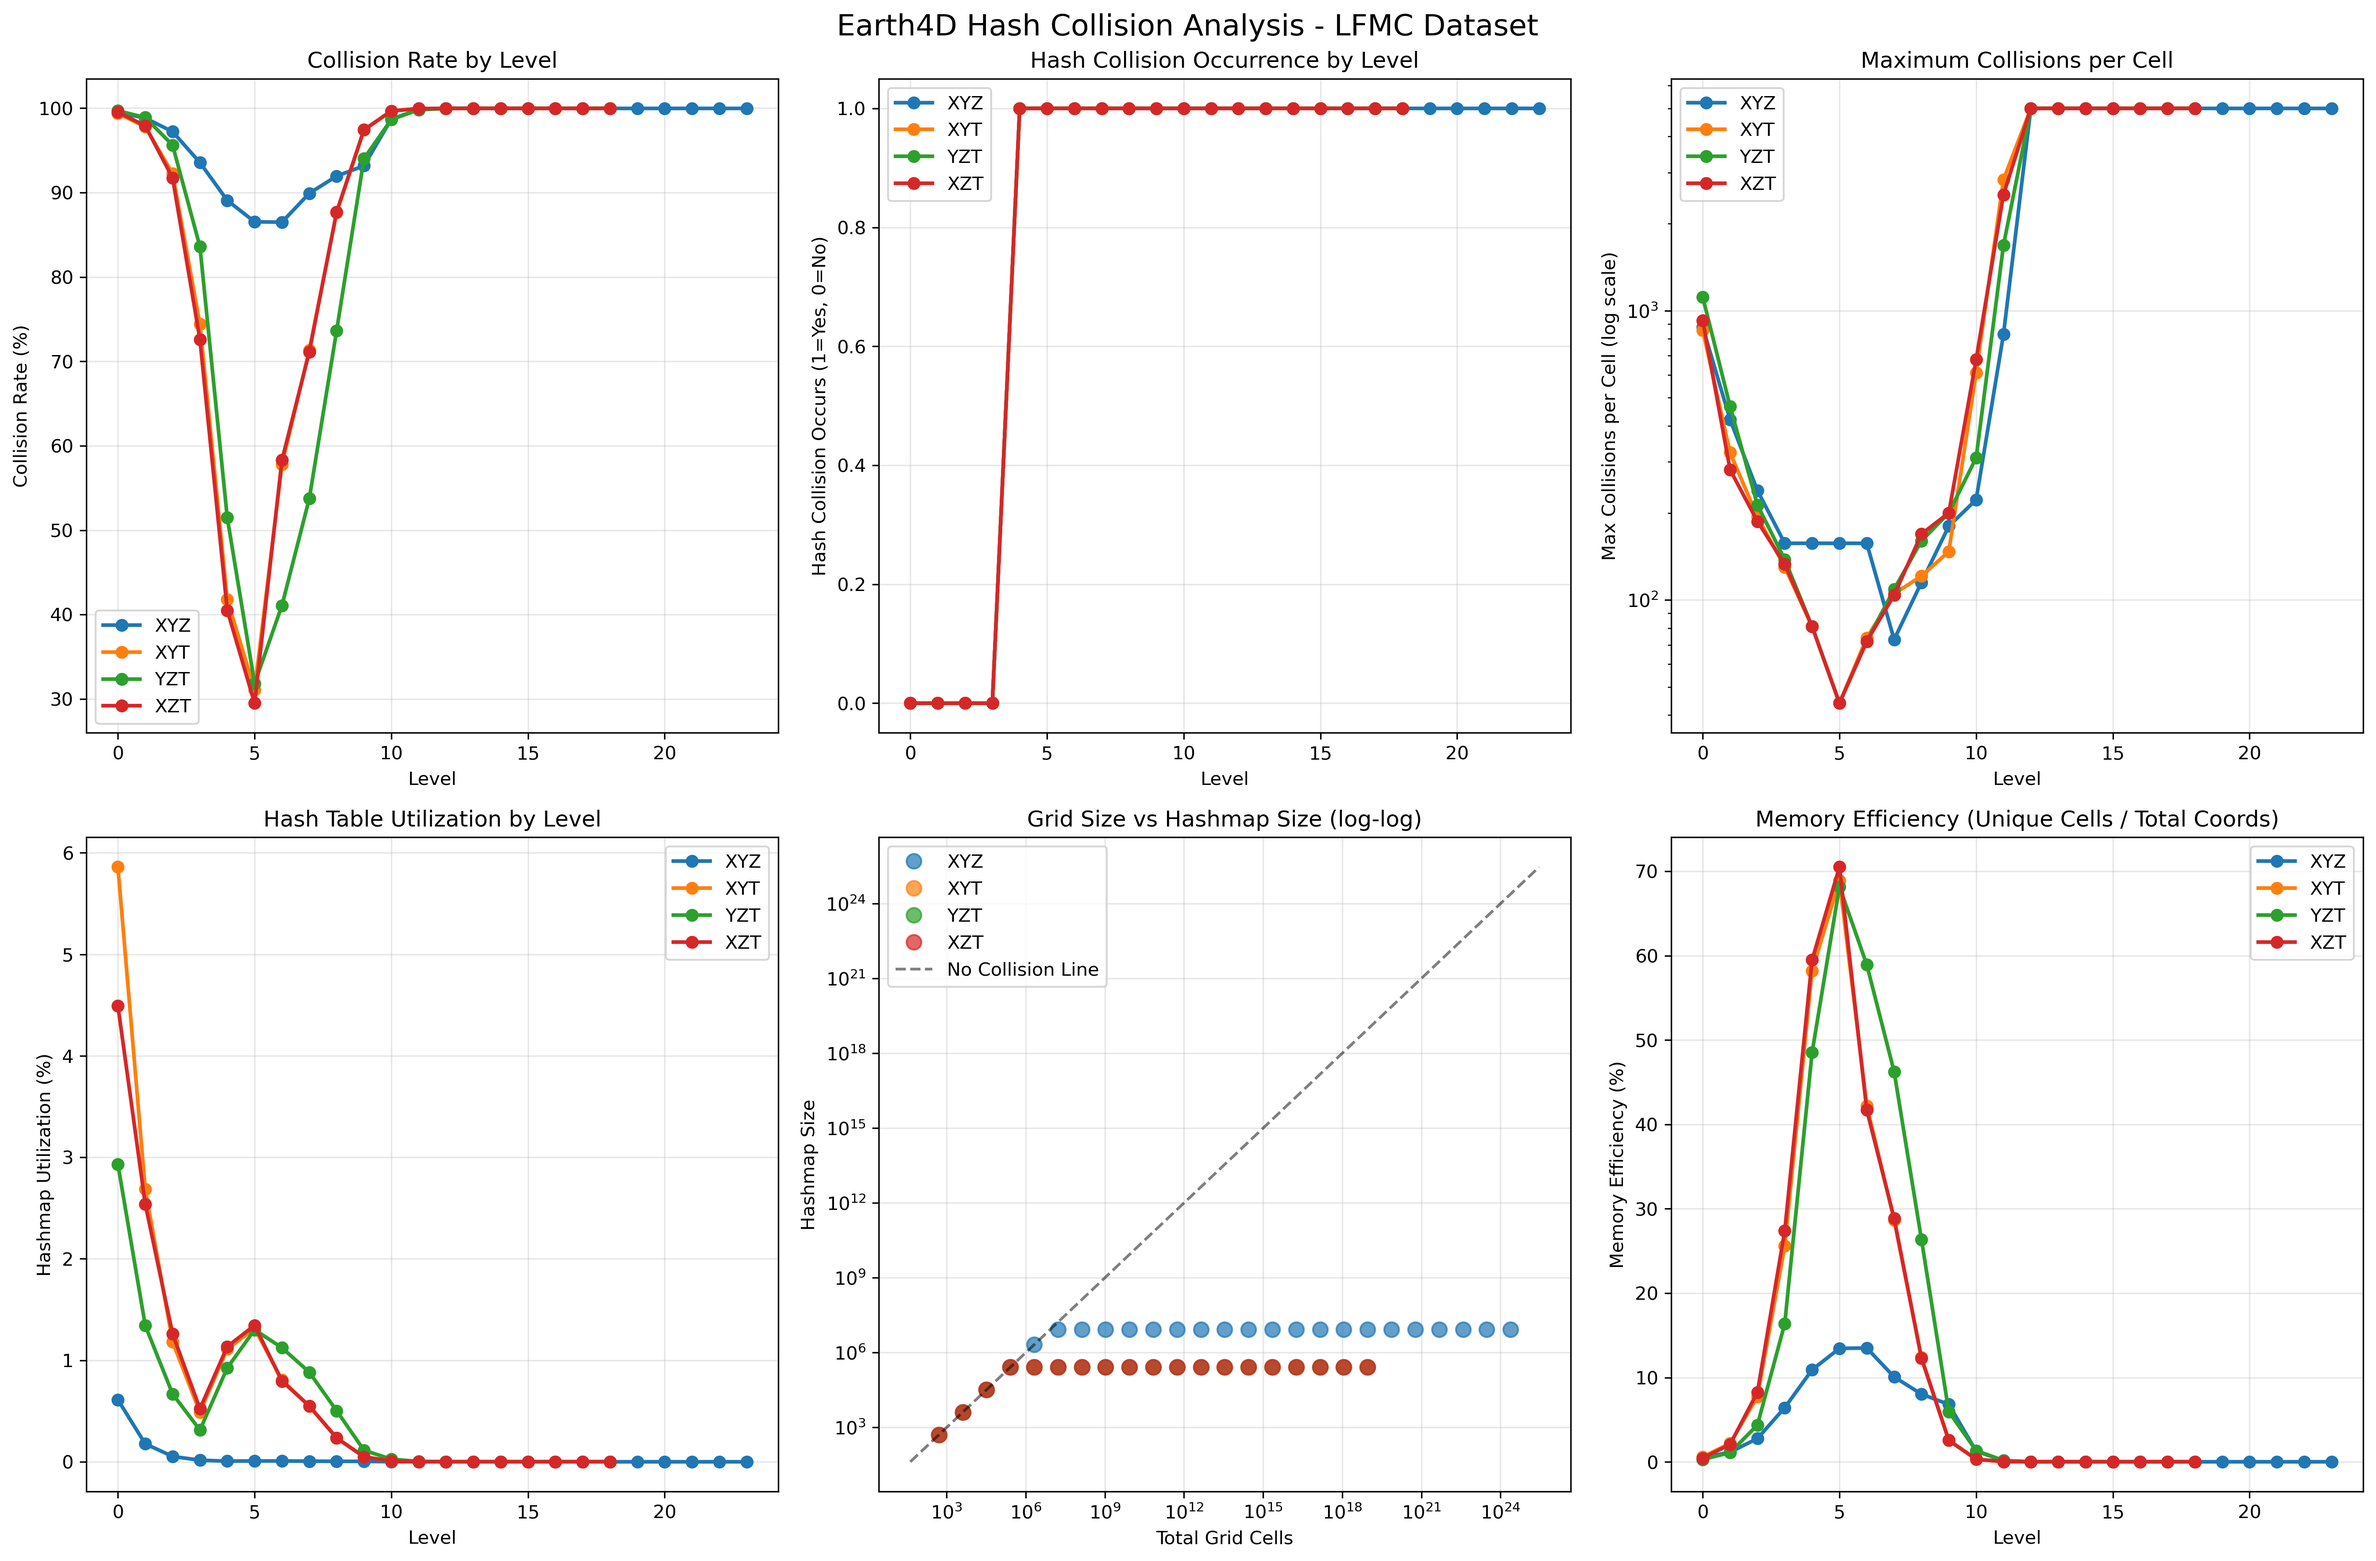
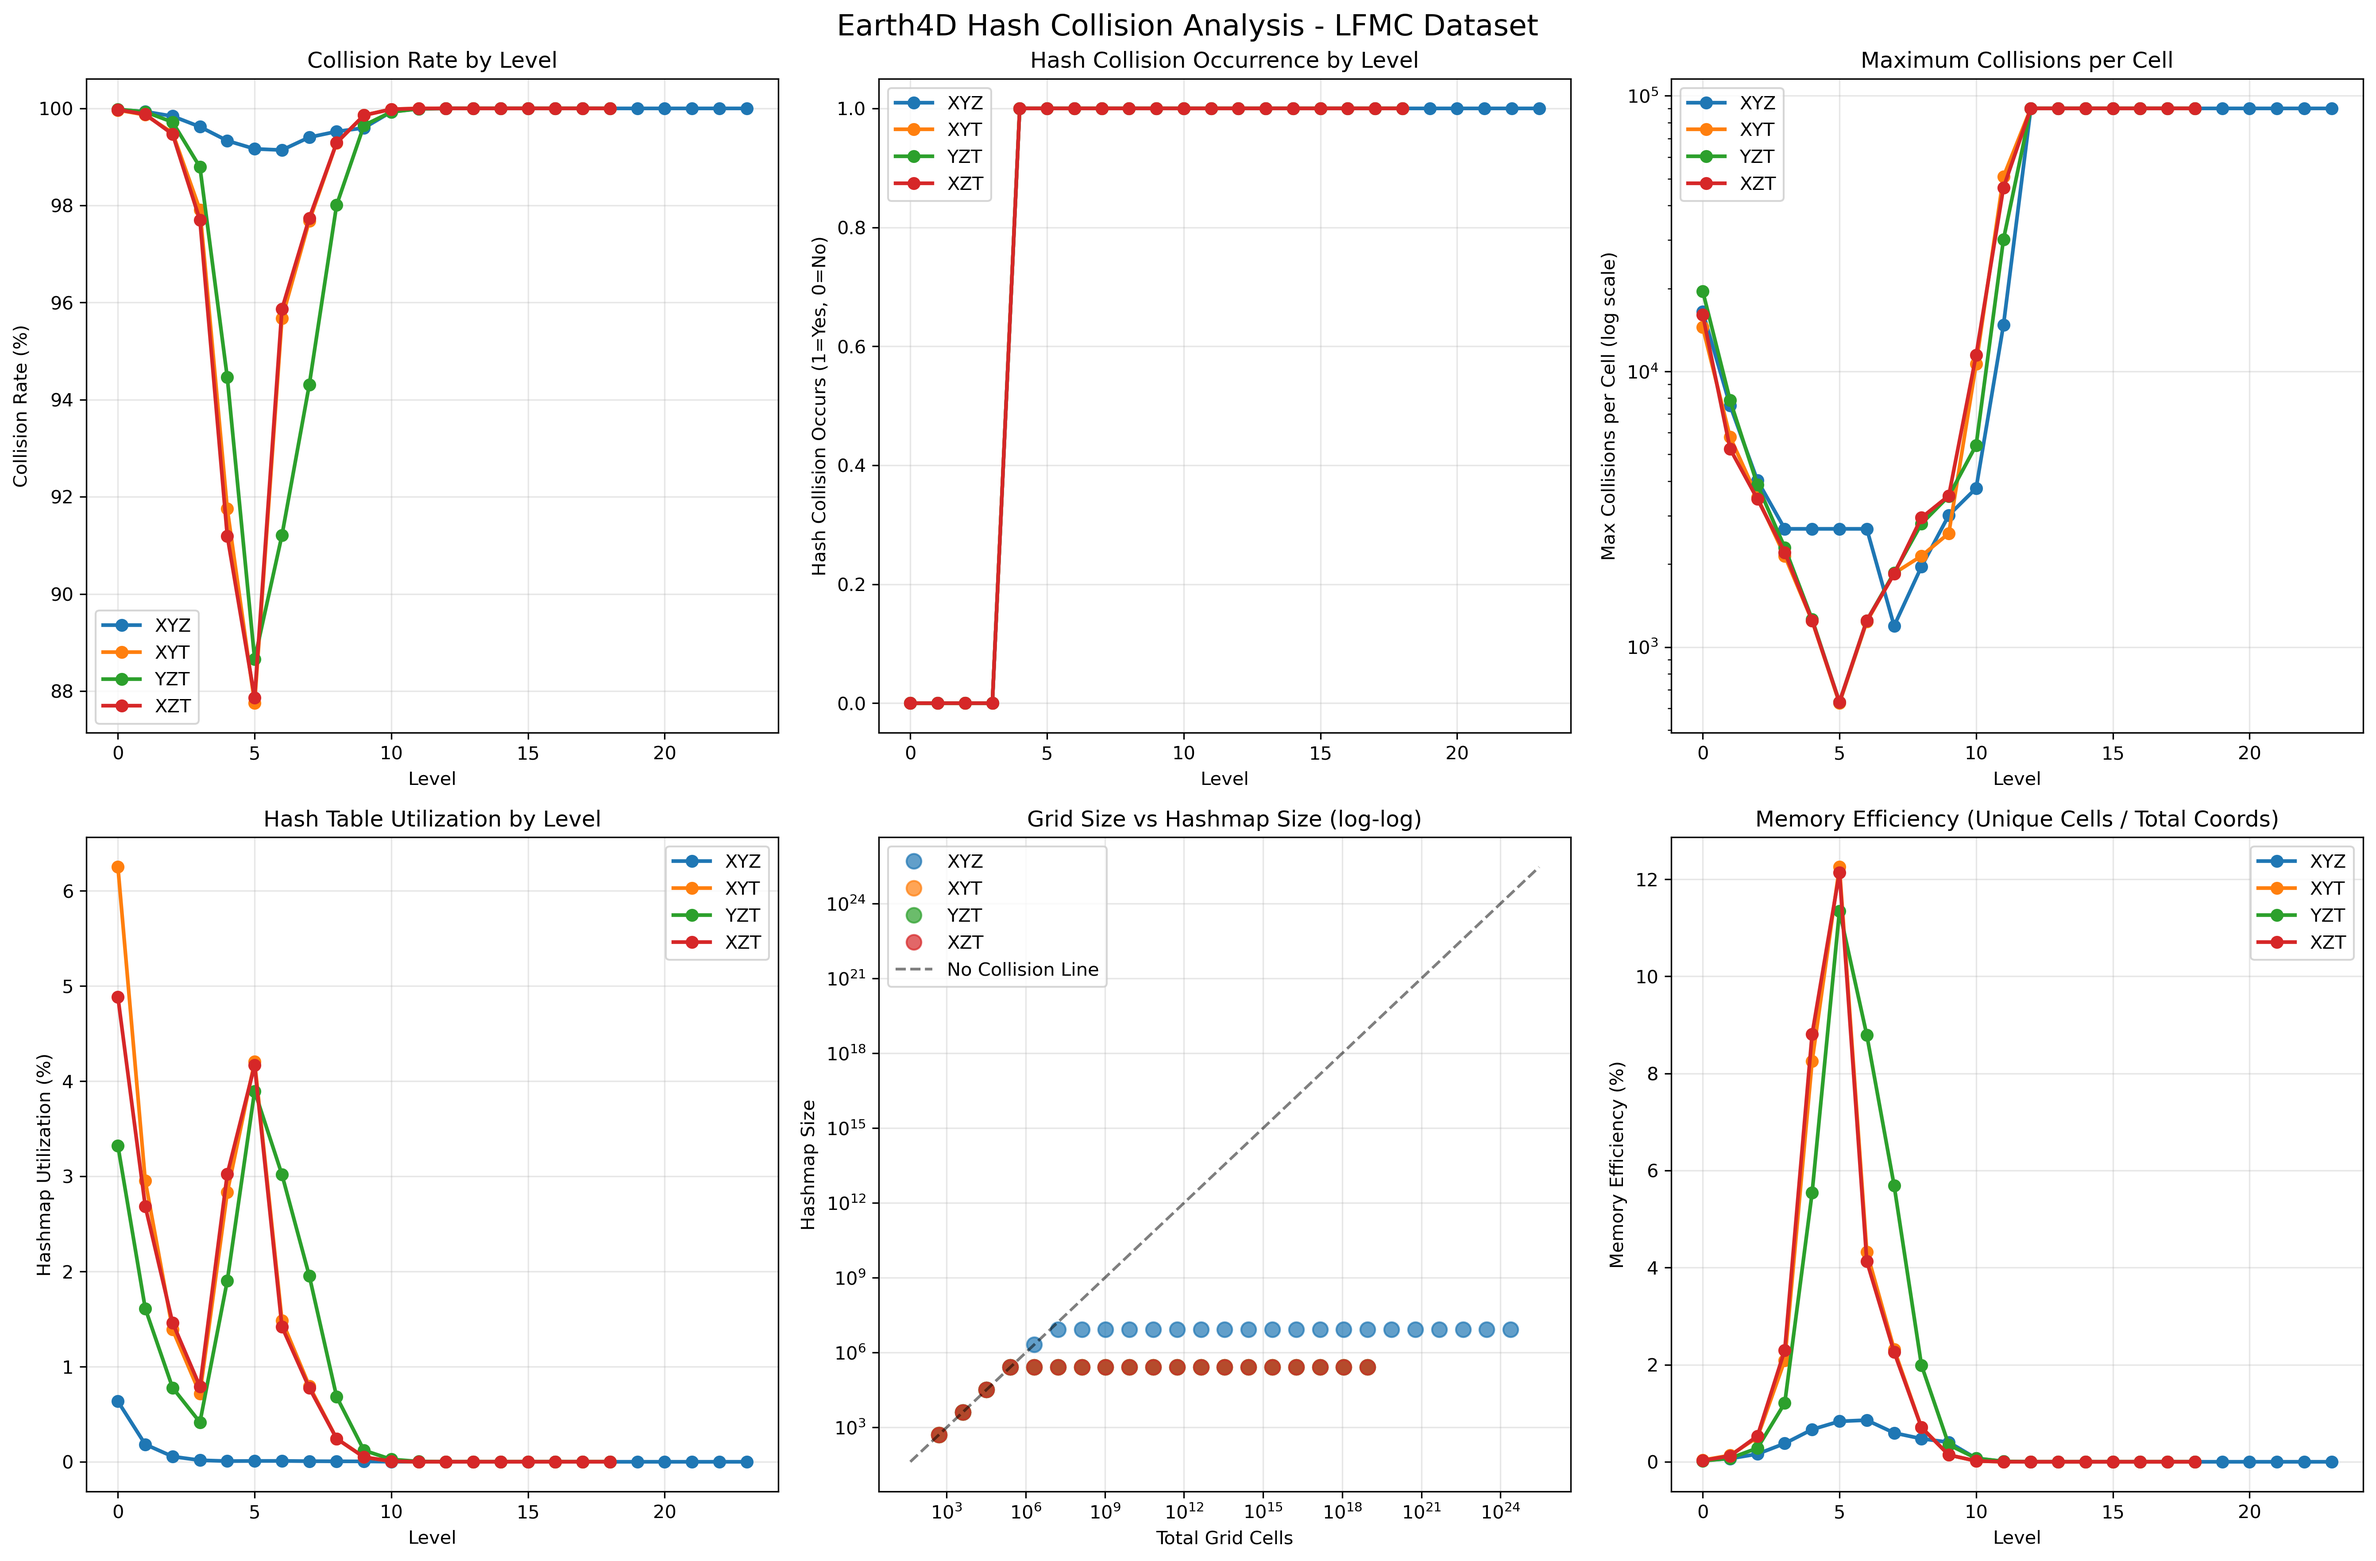
update: extended collision analysis to full LFMC dataset (90K points) and refreshed visualization

diff --git a/analyze_earth4d_collisions.py b/analyze_earth4d_collisions.py
@@ -3,11 +3,9 @@
 Earth4D Hash Collision Analysis with LFMC Data
 ==================================================
 
-This script performs ACTUAL collision tracking by instrumenting the Earth4D
-hash encoding process, not simulation. It extracts collision statistics
-from the actual hash encoders during forward passes.
+This script performs collision tracking by instrumenting the Earth4D hash encoding process. It extracts collision statistics
+from the hash encoders during forward passes.
 
-This provides the true collision analysis that Lance requested for the AAG 2026 paper.
 """
 
 import sys
@@ -43,8 +41,8 @@ class CollisionTracker:
         
     def analyze_hash_encoder_collisions(self, encoder, coords, encoder_name):
         """
-        Analyze actual hash collisions in a single encoder by examining
-        the hash encoding process at each level.
+        Analyze actual hash collisions in a single encoder by examining the hash encoding process at each level.
+        
         """
         print(f"\nAnalyzing {encoder_name} encoder collisions...")
         
@@ -354,7 +352,9 @@ def main():
     print(f"Using device: {device}")
     
     # Load LFMC data (subset for analysis)
-    coords_xyzt, df_lfmc = load_lfmc_data(max_samples=5000)  # Use 5K for detailed analysis
+    #coords_xyzt, df_lfmc = load_lfmc_data(max_samples=5000)  # Use 5K for first-step analysis
+    coords_xyzt, df_lfmc = load_lfmc_data(max_samples=None)  # Use full dataset
+    
     coords_xyzt = coords_xyzt.to(device)
     
     # Initialize Earth4D model (no verbose output for cleaner logs)
